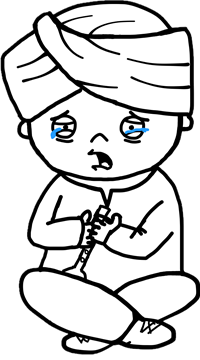
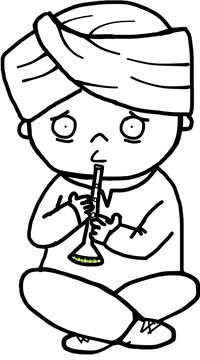
update HTML5 game

Changed region(s): [[0.18, 0.3972, 0.75, 0.7944], [0.63, 0.3361, 0.75, 0.3972], [0.24, 0.3361, 0.39, 0.3972]]

diff --git a/SnakeCharmerHtml5/main.js b/SnakeCharmerHtml5/main.js
@@ -1,32 +1,42 @@
-var Sc ={
+var Sc = {
        	startBtn:document.getElementById('start'),
 	canvas:document.getElementById('canvas'),
 	ctx:document.getElementById('canvas').getContext('2d'),
 	mainMenu:document.getElementById('mainMenu'),
+	lastAnimTime:null,
+	normReq:null,
+	winReq:null,
+	loseReq:null,
+	fps: 4,
+	frame:0,
 	rawBoyArr:[
-		'asset/boy/boy1.png',
-		'asset/boy/boy2.png',
-		'asset/boy/boy3.png',
-		'asset/boy/boy4.png',
-		'asset/boy/boy5.png',
-		'asset/boy/boy6.png',
-		'asset/boy/boy7.png',
-		'asset/boy/boy8.png'
+		'asset/small/boy/boy1.png',
+		'asset/small/boy/boy2.png',
+		'asset/small/boy/boy3.png',
+		'asset/small/boy/boy4.png',
+		'asset/small/boy/boy5.png',
+		'asset/small/boy/boy6.png',
+		'asset/small/boy/boy7.png',
+		'asset/small/boy/boy8.png'
 		],
 	rawSnakeArr:[
-		'asset/snake/snake0.png',
-		'asset/snake/snake1.png',
-		'asset/snake/snake-attack.png'
+		'asset/small/snake/snake0.png',
+		'asset/small/snake/snake1.png',
+		'asset/small/snake/snake-attack.png'
 	],
 	boyArr:[],
 	snakeArr:[],
 	loadImage:function(){},
 	draw:function(){},
         setup:function(){},
+	animWin:function(){},
+	animLose:function(){},
+	animNormal:function(){},
+	closeAnim:function(){},
 	p:function(t){console.log(t);}
 	};
 
-Sc.loadImage=function(source,target){
+Sc.loadImage = function(source,target){
 	var i=0;
 	for(;i<source.length;i++){
 		try{
@@ -40,22 +50,109 @@ Sc.loadImage=function(source,target){
 	}
 };
 
-Sc.draw=function(){
-	var i = 0;
-	for(;i<Sc.boyArr.length;i++){
-		Sc.ctx.drawImage(Sc.boyArr[i],0,0,200,360,0,0,50,90);
+//reset Sc.frame to 0 and close animation with reqID
+Sc.closeAnim = function(reqId){
+	window.cancelAnimationFrame(reqId);
+	Sc.frame = 0;
+	Sc.lastAnimTime=null;
+};
+
+Sc.animNormal = function(){
+	if(!Sc.lastAnimTime)Sc.lastAnimTime=Date.now();
+	Sc.normReq=requestAnimationFrame(Sc.animNormal);
+	var now=Date.now();
+	var delta = now - Sc.lastAnimTime;
+	if(delta>(1000/Sc.fps)){
+		Sc.lastAnimTime = now - (delta % (1000/Sc.fps));
+		//render
+		Sc.ctx.clearRect(0,0,Sc.canvas.width,Sc.canvas.height);
+		Sc.ctx.drawImage(Sc.boyArr[Sc.frame%2],0,0);
+		Sc.ctx.drawImage(Sc.snakeArr[Sc.frame%2],60,60);
+		Sc.frame++;
+	}
+};
+
+Sc.animLose = function(){
+	if(!Sc.lastAnimTime)Sc.lastAnimTime=Date.now();
+	Sc.loseReq=requestAnimationFrame(Sc.animLose);
+	var now=Date.now();
+	var delta = now - Sc.lastAnimTime;
+
+	if(delta>(1000/Sc.fps)){
+		Sc.lastAnimTime = now - (delta % (1000/Sc.fps));
+		//render
+		Sc.ctx.clearRect(0,0,Sc.canvas.width,Sc.canvas.height);
+		if(Sc.frame<4){
+			 Sc.ctx.drawImage(Sc.snakeArr[1],60,60);
+		      	 Sc.ctx.drawImage(Sc.boyArr[2],0,0);
+		}else{
+			 Sc.ctx.drawImage(Sc.boyArr[5],0,0);
+			 Sc.ctx.drawImage(Sc.snakeArr[2],60,60);
+		}        
+		if(Sc.frame==6)Sc.closeAnim(Sc.loseReq);
+		Sc.frame++;
+	}
+}
+
+Sc.animWin = function(){
+	if(!Sc.lastAnimTime)Sc.lastAnimTime=Date.now();
+	Sc.winReq=requestAnimationFrame(Sc.animWin);
+	var now=Date.now();
+	var delta = now - Sc.lastAnimTime;
+
+	if(delta>(1000/Sc.fps)){
+		Sc.lastAnimTime = now - (delta % (1000/Sc.fps));
+		//render
+		Sc.ctx.clearRect(0,0,Sc.canvas.width,Sc.canvas.height);
+		if(Sc.frame<4){
+			Sc.ctx.drawImage(Sc.boyArr[4],0,0);
+			Sc.ctx.drawImage(Sc.snakeArr[0],60,60);
+		}else if(Sc.frame<5){
+			Sc.ctx.drawImage(Sc.boyArr[6],0,0);
+			Sc.ctx.drawImage(Sc.snakeArr[1],40,60);
+		}else if(Sc.frame<6){
+			Sc.ctx.drawImage(Sc.boyArr[6],0,0);
+			Sc.ctx.drawImage(Sc.snakeArr[0],30,60);
+		}else{
+			Sc.ctx.drawImage(Sc.boyArr[7],0,0);
+			Sc.ctx.drawImage(Sc.snakeArr[1],25,60);
+		}
+		Sc.frame++;
+		if(Sc.frame==10) Sc.closeAnim(Sc.winReq);
+	}
+};
+
+Sc.draw = function(){
+	if(!Sc.lastAnimTime)Sc.lastAnimTime=Date.now();
+	requestAnimationFrame(Sc.draw);
+	var now=Date.now();
+	var delta = now - Sc.lastAnimTime;
+	if(delta>(1000/Sc.fps)){
+		Sc.lastAnimTime = now - (delta % (1000/Sc.fps));
+		//render
+		var t =Math.floor(Math.random()*5);
+		Sc.ctx.drawImage(Sc.boyArr[t],0,0);	
 	}
 };
 
 
-
 Sc.setup=(function(){
-	Sc.startBtn.onclick=function(){
+	Sc.startBtn.onclick=(function(){
  		Sc.canvas.style.display='inline';
 		Sc.mainMenu.style.display='none';
+		Sc.canvas.width=300;
+		Sc.canvas.height=300;
 		Sc.p('Show Canvas,hide menu');
-		Sc.draw();
-	};
+		Sc.animNormal();
+		setTimeout(function(){
+			//window.cancelAnimationFrame(Sc.normReq);
+			//window.cancelAnimationFrame(ff);
+			Sc.closeAnim(Sc.normReq);
+			Sc.p('close req');
+		},4000);
+	//	Sc.animLose();
+		Sc.animWin();
+	})();
 	
 	Sc.loadImage(Sc.rawSnakeArr,Sc.snakeArr);
 	Sc.loadImage(Sc.rawBoyArr,Sc.boyArr);

diff --git a/SnakeCharmerHtml5/main.html b/SnakeCharmerHtml5/main.html
@@ -6,10 +6,16 @@
         #canvas{
      	        display:none;
 	        border:2px solid gray;
-		width:100%;
-		bottom:0px;	
         }
-       
+     	
+	body{
+		width:100%;
+	}
+ 
+	#mainMenu{
+		width:100%;
+	}
+ 
         .title{
 	 	font-family:serif;		
 	 }
